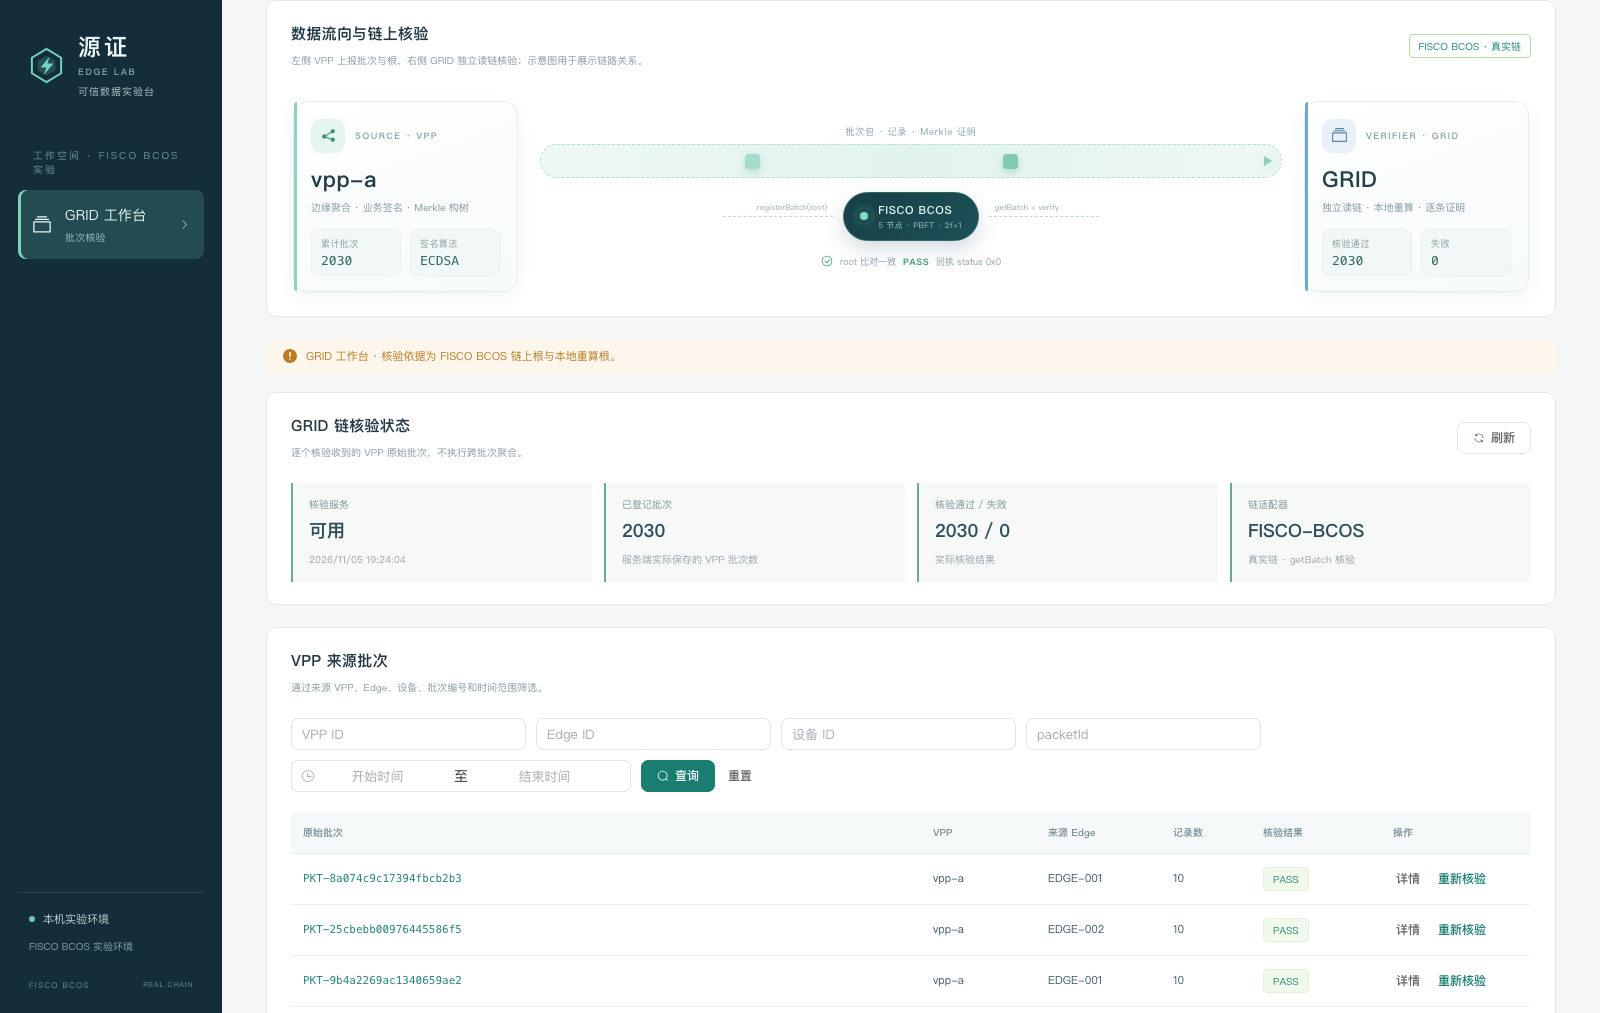
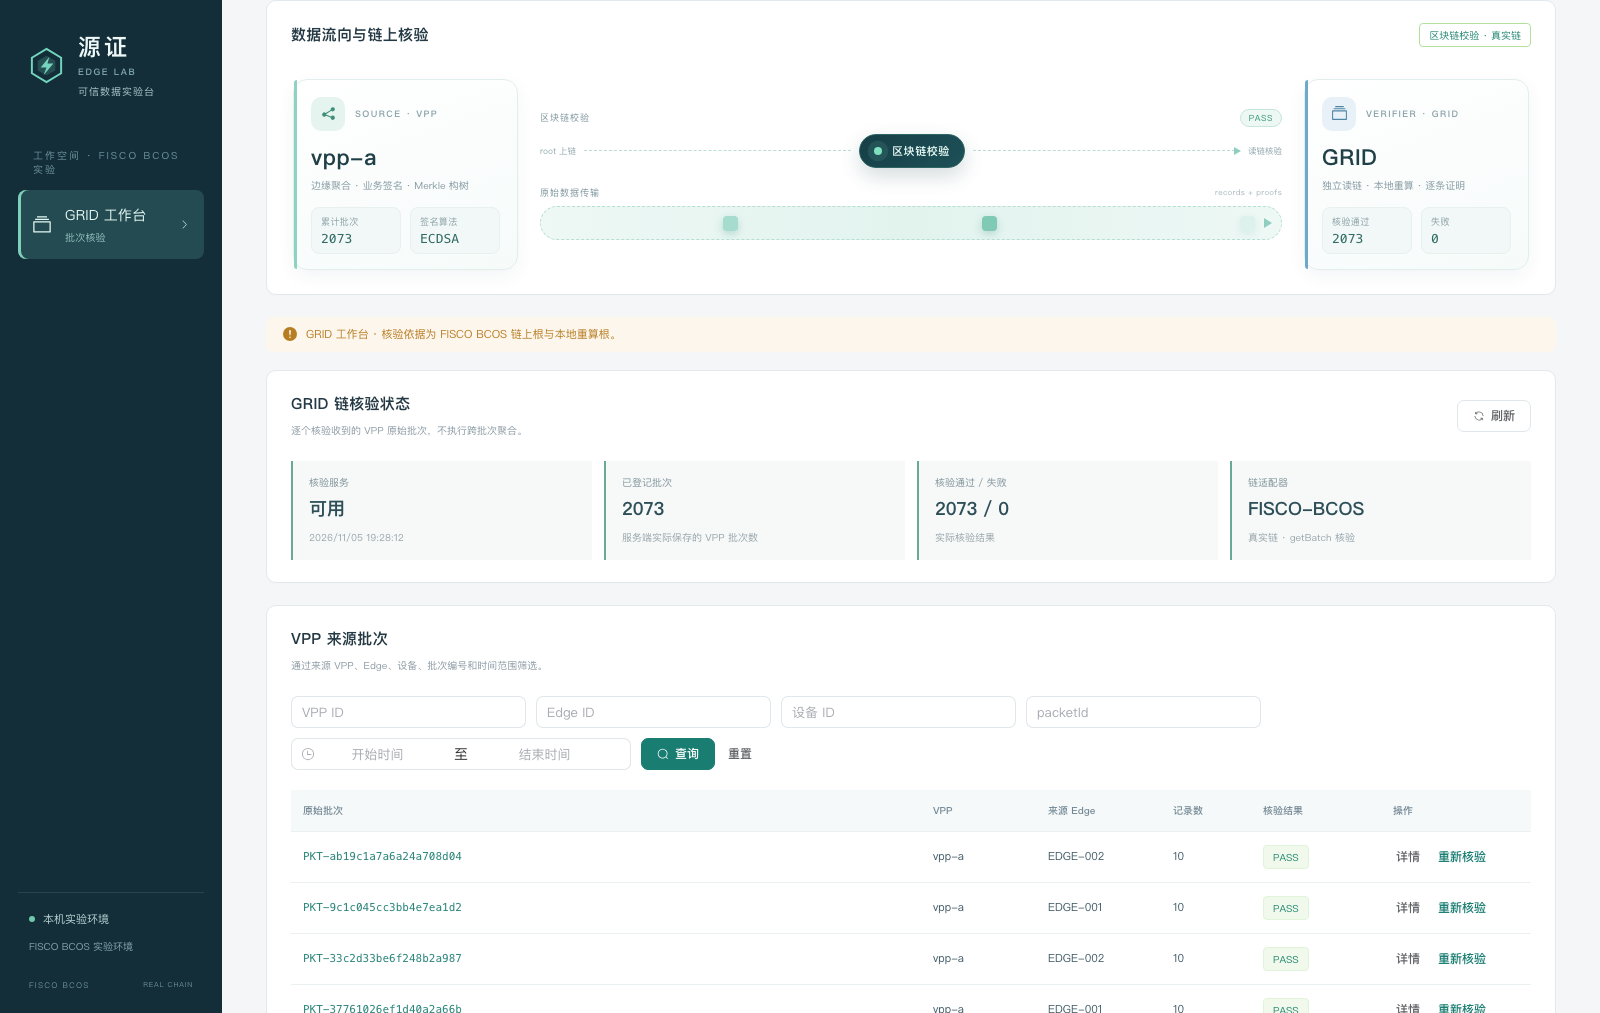
feat(console): GRID 流向图拆为两条通道
- 上通道「区块链校验」：root 上链 → 区块链校验 → 读链核验 + PASS
- 下通道「原始数据传输」：批次包/记录/proofs 流动动画
- 删除副标题与“5 节点 · PBFT · 2f+1”，FISCO BCOS 改为区块链校验

diff --git a/console-prototype/frontend/src/App.vue b/console-prototype/frontend/src/App.vue
@@ -381,7 +381,7 @@ onUnmounted(() => { clearInterval(poll); clearInterval(tick); window.removeEvent
         <template v-if="page === 'grid-workbench'">
           
           <section class="panel flow-panel">
-            <div class="panel-heading"><div><h2>数据流向与链上核验</h2><p>左侧 VPP 上报批次与根，右侧 GRID 独立读链核验；示意图用于展示链路关系。</p></div><el-tag type="success" effect="plain">FISCO BCOS · 真实链</el-tag></div>
+            <div class="panel-heading"><div><h2>数据流向与链上核验</h2></div><el-tag type="success" effect="plain">区块链校验 · 真实链</el-tag></div>
             <div class="flow-map">
               <article class="flow-node flow-vpp">
                 <div class="flow-node-top"><span class="flow-node-icon"><el-icon><Share /></el-icon></span><span class="flow-kicker">SOURCE · VPP</span></div>
@@ -390,16 +390,20 @@ onUnmounted(() => { clearInterval(poll); clearInterval(tick); window.removeEvent
                 <dl class="flow-stats"><div><dt>累计批次</dt><dd>{{ gridOverview?.batchCount ?? '—' }}</dd></div><div><dt>签名算法</dt><dd>ECDSA</dd></div></dl>
               </article>
               <div class="flow-core">
-                <div class="flow-rail">
-                  <span class="flow-rail-label">批次包 · 记录 · Merkle 证明</span>
+                <div class="flow-lane">
+                  <div class="flow-lane-head"><span>区块链校验</span><span class="lane-pass">PASS</span></div>
+                  <div class="chain-lane-body">
+                    <span class="lane-tag">root 上链</span>
+                    <span class="lane-line"></span>
+                    <div class="flow-chain"><span class="flow-chain-dot"></span><b>区块链校验</b></div>
+                    <span class="lane-line with-arrow"></span>
+                    <span class="lane-tag">读链核验</span>
+                  </div>
+                </div>
+                <div class="flow-lane">
+                  <div class="flow-lane-head"><span>原始数据传输</span><em>records + proofs</em></div>
                   <div class="flow-track"><i class="flow-packet p1"></i><i class="flow-packet p2"></i><i class="flow-packet p3"></i></div>
                 </div>
-                <div class="flow-chain-row">
-                  <span class="flow-stem left"><em>registerBatch(root)</em></span>
-                  <div class="flow-chain"><span class="flow-chain-dot"></span><div><b>FISCO BCOS</b><small>5 节点 · PBFT · 2f+1</small></div></div>
-                  <span class="flow-stem right"><em>getBatch + verify</em></span>
-                </div>
-                <div class="flow-verdict"><el-icon><CircleCheck /></el-icon><span>root 比对一致</span><b>PASS</b><span>回执 status 0x0</span></div>
               </div>
               <article class="flow-node flow-grid">
                 <div class="flow-node-top"><span class="flow-node-icon"><el-icon><Files /></el-icon></span><span class="flow-kicker">VERIFIER · GRID</span></div>

diff --git a/console-prototype/frontend/src/workbench.css b/console-prototype/frontend/src/workbench.css
@@ -228,3 +228,28 @@
   .flow-core { order: 2; }
   .flow-grid { order: 3; }
 }
+
+/* 两条通道：上区块链校验，下原始数据传输 */
+.flow-core { gap: 18px; }
+.flow-lane { display: flex; flex-direction: column; }
+.flow-lane-head {
+  display: flex; align-items: center; justify-content: space-between;
+  font-size: 9px; letter-spacing: 1px; color: #7f979f; margin-bottom: 7px;
+}
+.flow-lane-head em { font-style: normal; font-size: 8px; color: #a2b4ba; letter-spacing: .3px; }
+.chain-lane-body { display: flex; align-items: center; gap: 8px; }
+.lane-tag { font-size: 8.5px; color: #8fa6ad; white-space: nowrap; }
+.lane-line { flex: 1; min-width: 18px; height: 1px; border-top: 1px dashed #b9dcd3; position: relative; }
+.lane-line.with-arrow::after {
+  content: ""; position: absolute; right: -1px; top: -4px;
+  border-left: 7px solid #8fcec0;
+  border-top: 4px solid transparent;
+  border-bottom: 4px solid transparent;
+}
+.lane-pass {
+  font-size: 8.5px; color: #2f8f6f; background: #edf8f4;
+  border: 1px solid #c6e6da; border-radius: 999px; padding: 2px 8px; letter-spacing: .6px;
+}
+.flow-chain { padding: 8px 14px; }
+.flow-chain b { font-size: 11px; }
+.flow-lane .flow-track { margin-top: 0; }
